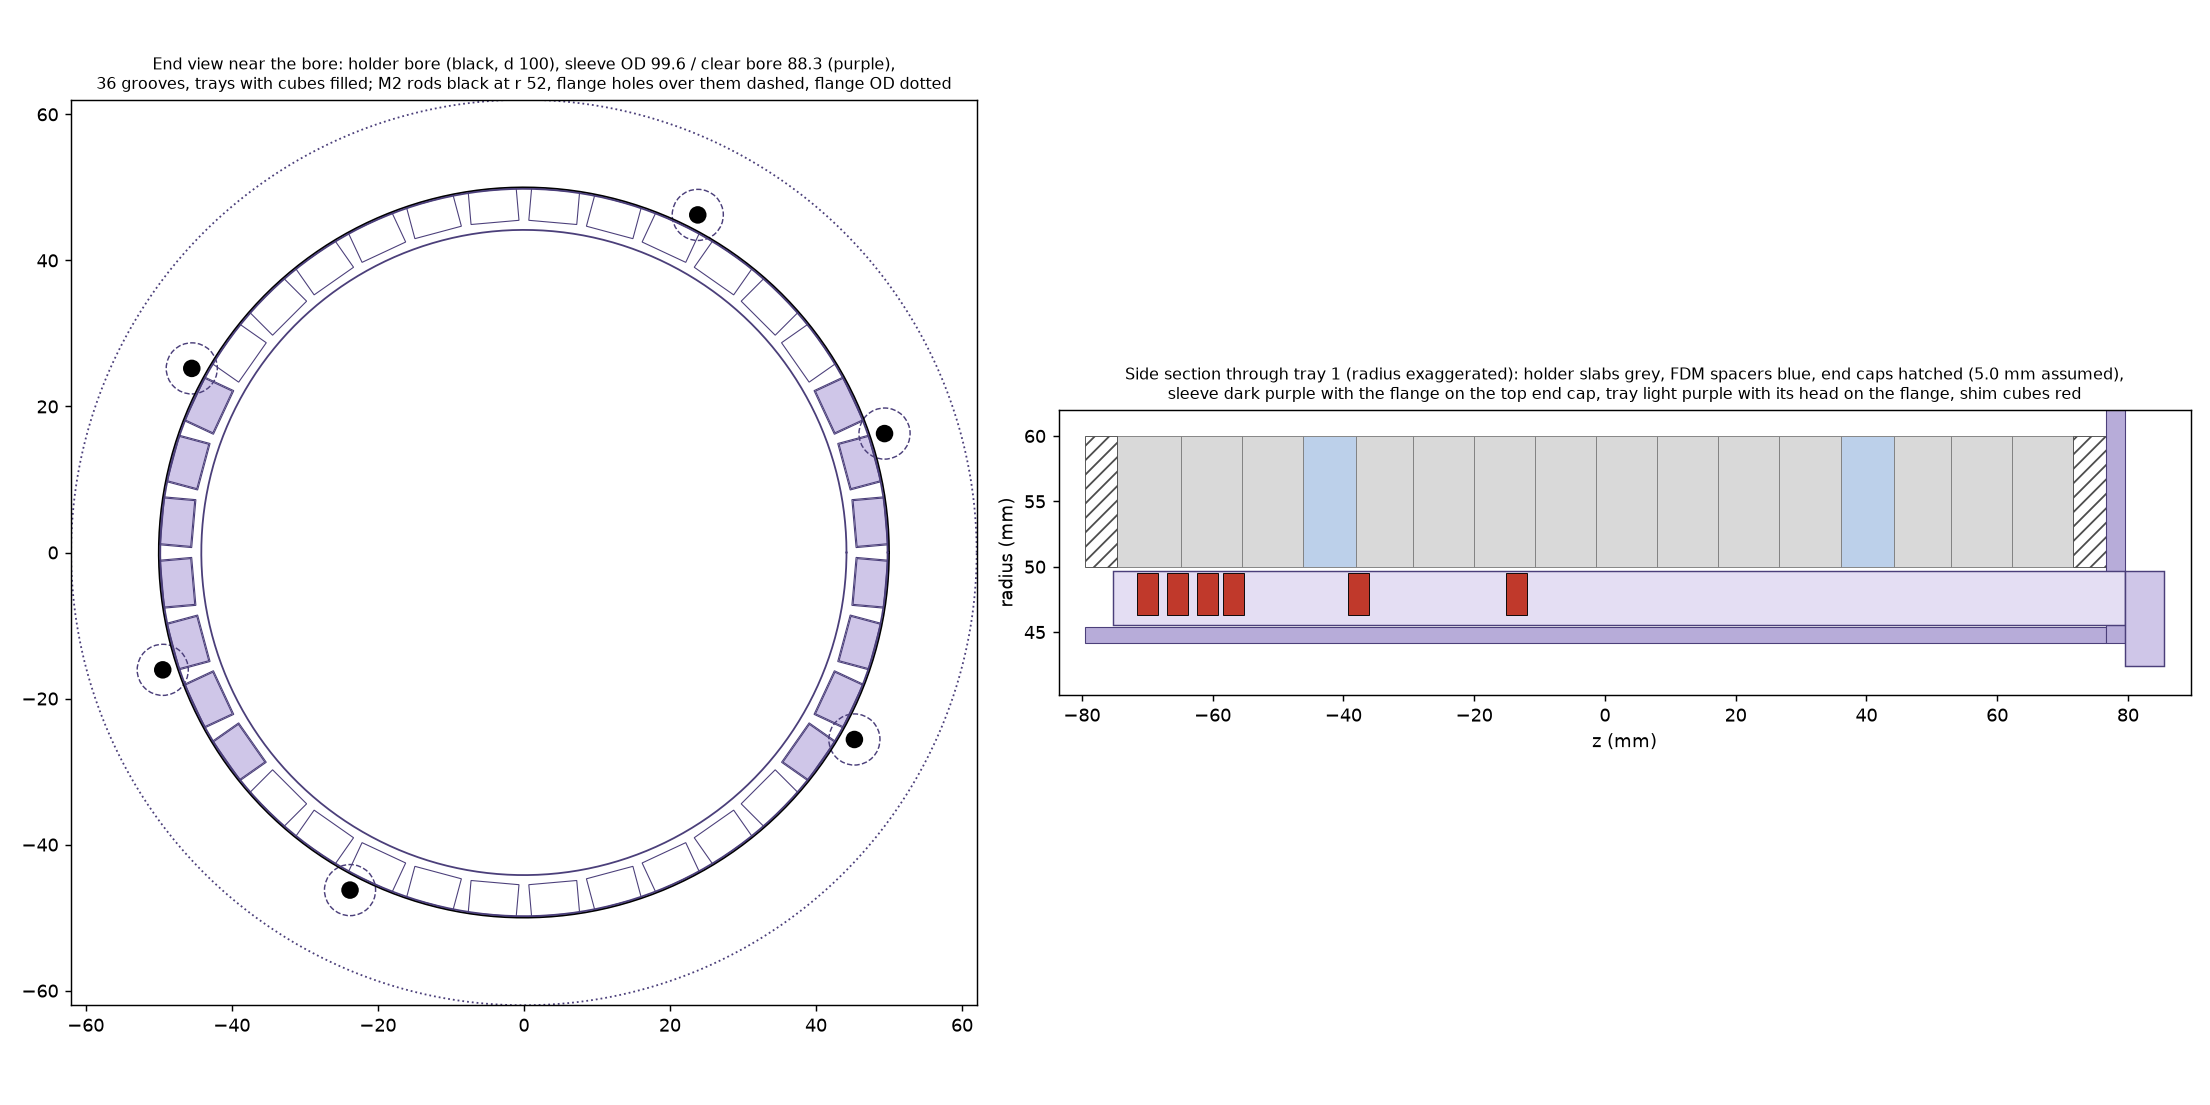
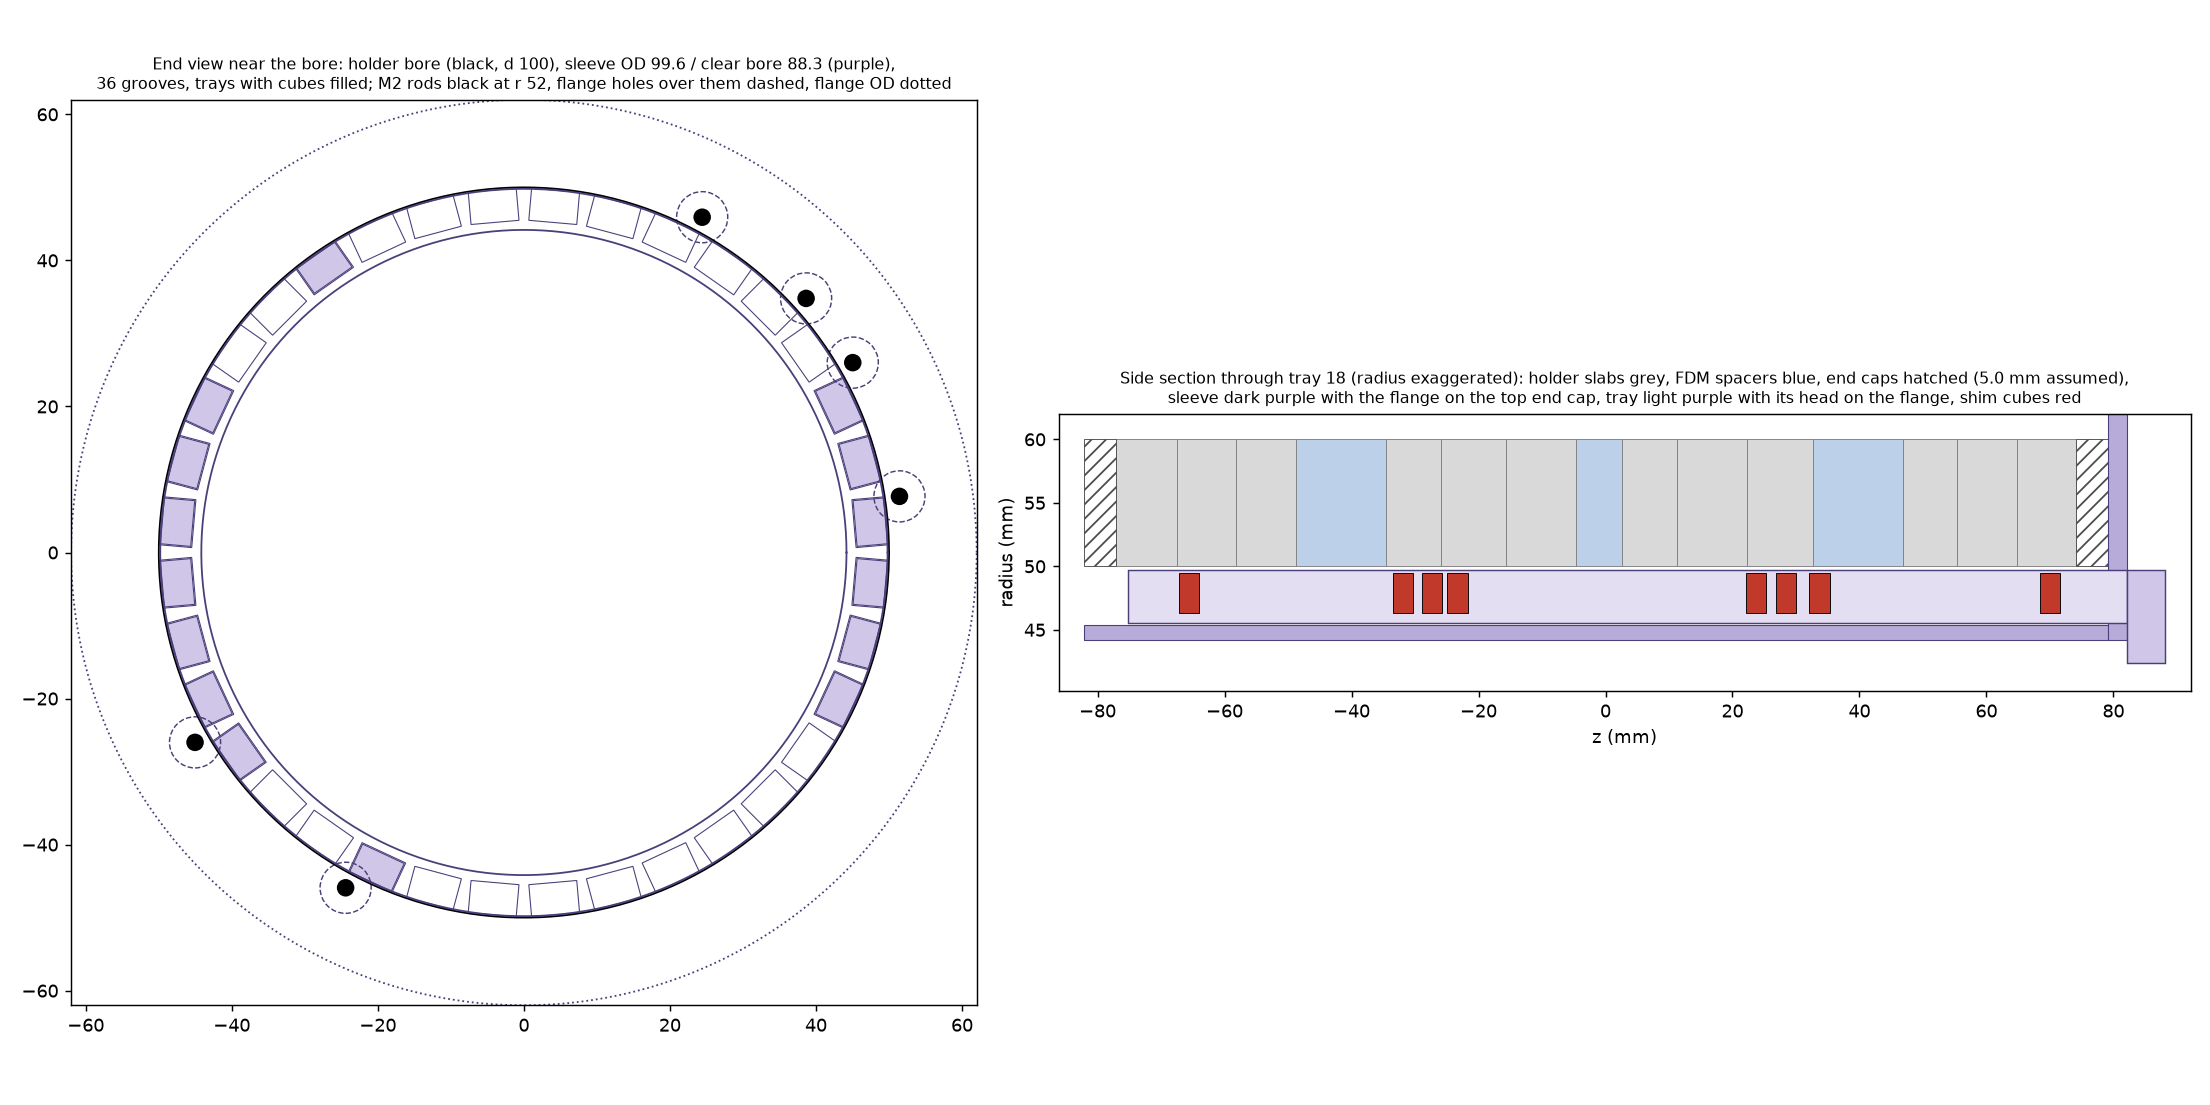
Shim sleeve and holder CAD for FD_gd
- FD_gd is the design for the holder and shim sleeve (FD_robust kept for comparison)
- shim study on FD_gd: 3,471-4,289 -> 328-621 ppm with 60 cubes (6 starts)
- shim_design.py: 6 placement starts by default (3 left some builds at ~930 ppm)
- SHIMMING.md, CAD.md, README, FIELD_DESIGN.md updated; figures for FD_gd

diff --git a/shim_design.py b/shim_design.py
@@ -29,8 +29,8 @@ Field maps:
                   checked on the target cylinder; for studying what shimming buys before anything is built
 
 usage:
-  python shim_design.py results/field_design/FD_robust.xlsx results/shim/FD_robust_sim --simulate 3
-  python shim_design.py results/field_design/FD_robust.xlsx results/shim/measured --map map.csv
+  python shim_design.py results/field_design/FD_gd.xlsx results/shim/FD_gd_sim6 --simulate 3
+  python shim_design.py results/field_design/FD_gd.xlsx results/shim/measured --map map.csv
 Outputs: <out>_b<i>.csv (one row per shim cube: tray, z, orientation, position, magnetization), <out>_b<i>.npz,
 <out>.log.
 """
@@ -282,7 +282,7 @@ def main():
     ap.add_argument('--tray-wall', type=float, default=0.8, help='resin between pockets along a tray, mm')
     ap.add_argument('--max-cubes', type=int, default=60)
     ap.add_argument('--min-b0', type=float, default=44.8, help='mT, after shimming')
-    ap.add_argument('--starts', type=int, default=3, help='placement offsets tried before refinement')
+    ap.add_argument('--starts', type=int, default=6, help='placement offsets tried before refinement')
     ap.add_argument('--iters', type=int, default=200, help='SLSQP iterations per start')
     args = ap.parse_args()
 

diff --git a/make_shim_cad.py b/make_shim_cad.py
@@ -17,7 +17,7 @@ Geometry options must match the shim_design.py run (cube, trays, bore, fit, tray
 checks the cube centre radius it builds against the one in the solution.
 
 usage:
-  python make_shim_cad.py results/shim/FD_robust_sim_b0.csv --holder cad/fd_robust --out cad/fd_robust_shim
+  python make_shim_cad.py results/shim/FD_gd_sim6_b0.csv --holder cad/fd_gd --out cad/fd_gd_shim
 Outputs in --out: sleeve.step/.stl, tray_<k>.step/.stl (trays with cubes), shim_assembly.step (sleeve, trays and
 shim cubes in place, same coordinates as the holder's assembly.step), tray_loading.png, fit_section.png, trays.csv.
 """

diff --git a/SHIMMING.md b/SHIMMING.md
@@ -5,25 +5,29 @@ cubes (1/8", N42) are placed by the same field-driven pipeline as the main array
 density by LP, discrete magnets from the density, then gradient refinement of every cube's position and angle.
 
 Tools: `shim_design.py` (placement), `make_shim_cad.py` (sleeve, trays, loading guide), `plot_shims.py` (picture).
-Design: `results/field_design/FD_robust.xlsx` (650 cubes, robust design; holder CAD from `make_ring_cad.py`).
+Design: `results/field_design/FD_gd.xlsx` (650 cubes, the field-driven design; holder CAD from `make_ring_cad.py`).
+The robust design `FD_robust.xlsx` was studied too and is kept for comparison: it is better unshimmed but puts more
+magnets near the centre, and once shimmed the two are close (FD_gd slightly better).
 
-![shim sleeve](figures/shim_sleeve_FD_robust.png)
+![shim sleeve](figures/shim_sleeve_FD_gd.png)
 
 ## Why shim
 
-With ideal magnets FD_robust gives 639 ppm over the 40 x 40 mm cylinder; with typical magnet errors (Br 0.8%, angle
-0.7 deg, position +-0.25 mm) it is 2,400 ppm typical, 3,200 ppm p90. The errors are random, so the as-built field is not
-known until it is measured, and no design change removes them. Shimming after the build does.
+With ideal magnets FD_gd gives 45 ppm over the 40 x 40 mm cylinder; with typical magnet errors (Br 0.8%, angle
+0.7 deg, position +-0.25 mm) it is 3,400 ppm typical, 4,500 ppm p90 (FD_robust: 639 ppm ideal, 2,400 / 3,200 as
+built). The errors are random, so the as-built field is not known until it is measured, and no design change removes
+them. Shimming after the build does.
 
 What an ideal shim of a given order would leave (`magsimulator.tolerance_homogeneity`, 400 builds, typical / p90 ppm):
 
-| Shim removes | FD_robust | Previous BEST |
-|---|---|---|
-| nothing (mean only) | 2,461 / 3,277 | 3,217 / 4,123 |
-| + linear terms (gradient offsets) | 1,588 / 2,204 | 2,297 / 3,016 |
-| + second-order terms | 1,104 / 1,339 | 1,580 / 1,997 |
+| Shim removes | FD_gd | FD_robust | Previous BEST |
+|---|---|---|---|
+| nothing (mean only) | 3,376 / 4,466 | 2,461 / 3,277 | 3,217 / 4,123 |
+| + linear terms (gradient offsets) | 2,459 / 3,198 | 1,588 / 2,204 | 2,297 / 3,016 |
+| + second-order terms | 1,595 / 2,076 | 1,104 / 1,339 | 1,580 / 1,997 |
 
-The sleeve below does better than a perfect second-order shim (440-630 ppm on simulated builds), because it also corrects higher orders.
+The sleeve below does better than a perfect second-order shim (330-620 ppm on simulated FD_gd builds), because it also
+corrects higher orders.
 
 ## What MRI4ALL did
 
@@ -41,7 +45,8 @@ ledger / magcadexporter code as this repo:
 
 ## Options considered
 
-All on FD_robust, simulated builds (as above), peak-to-peak over the 40 x 40 mm cylinder (1,990 check points):
+Studied on FD_robust (before switching to FD_gd), simulated builds as above, peak-to-peak over the 40 x 40 mm cylinder
+(1,990 check points):
 
 | Option | Result (3 builds, unshimmed 2,149 / 3,461 / 2,246) | Shim magnets | Notes |
 |---|---|---|---|
@@ -61,11 +66,11 @@ instead of 100.
    as-built builds of the ledger (`--simulate N`) to study the design before building.
 2. **LP density.** Points every a/2 along each of the 36 trays, 6 directions each (+-radial, +-tangential, +-z):
    minimize the peak-to-peak deviation (minimax LP, HiGHS) with B0 >= `--min-b0` (44.8 mT) and at most `--max-cubes`
-   (60) cubes. This is the continuous optimum: 65-72 ppm.
+   (60) cubes. This is the continuous optimum: 4 ppm for FD_gd, 72 ppm for FD_robust.
 3. **Placement.** Walk each tray; a cube goes wherever the accumulated |density| passes k + offset and points along the
    local density: flat (magnetization in the tangential-z plane, at the matching angle) or standing (radially in or
-   out) when the density is mostly radial. Cubes beyond the cap with the least density around them are dropped. Three
-   offsets are tried.
+   out) when the density is mostly radial. Cubes beyond the cap with the least density around them are dropped. Six
+   offsets are tried (`--starts`): some end in a poor local optimum (thousands of ppm), so the best is kept.
 4. **Gradient refinement.** SLSQP minimax over every cube's z and every flat cube's angle, with tray spacing (the full
    diagonal for flat cubes, which may turn to any angle, plus 0.8 mm), |z| <= 70 mm and B0. The cubes are 25+ mm from
    the check points, so a point dipole is exact enough and the gradients are analytic; the result is checked with the
@@ -74,22 +79,33 @@ instead of 100.
    are propagated linearly and reported (typical and p90 after shimming).
 
 Why not a fixed pocket grid: the trays are printed for each solution, so pockets can be anywhere and at any angle. On a
-grid the continuous optimum (~65 ppm) rounds to ~1,000 ppm at best; letting positions and angles move recovers most
+grid the continuous optimum rounds to ~1,000 ppm at best; letting positions and angles move recovers most
 of it.
 
 ## Results
 
-`results/shim/FD_robust_sim.log` (`shim_design.py --simulate 3`, defaults: 36 trays, at most 60 cubes, B0 >= 44.8 mT),
-peak-to-peak over the 40 x 40 mm cylinder, exact cuboid fields, 1,990 check points:
+**FD_gd** (`results/shim/FD_gd_sim6.log`, `shim_design.py --simulate 3`, defaults: 36 trays, at most 60 cubes,
+B0 >= 44.8 mT, 6 starts), peak-to-peak over the 40 x 40 mm cylinder, exact cuboid fields, 1,990 check points:
 
 | Build | Unshimmed | LP bound | Shimmed | Cubes (flat / out / in), trays | B0 after | With shim-cube errors, typical / p90 | Time |
 |---|---|---|---|---|---|---|---|
-| 0 | 2,149 | 72 | **444** | 60 (34 / 11 / 15), 14 | 44.88 mT | 642 / 775 | 76 s |
-| 1 | 3,461 | 73 | **459** | 60 (42 / 8 / 10), 14 | 44.97 mT | 641 / 759 | 135 s |
-| 2 | 2,246 | 72 | **632** | 60 (35 / 11 / 14), 16 | 44.91 mT | 764 / 867 | 97 s |
+| 0 | 3,471 | 4 | **329** | 60 (34 / 14 / 12), 15 | 44.94 mT | 679 / 824 | 445 s |
+| 1 | 4,289 | 4 | **328** | 60 (34 / 13 / 13), 16 | 44.88 mT | 634 / 818 | 249 s |
+| 2 | 4,008 | 4 | **621** | 60 (30 / 15 / 15), 16 | 44.83 mT | 808 / 941 | 206 s |
 
-For comparison, a perfect second-order shim leaves 927-1,141 ppm on the same builds. The CAD and figures on this page
-are for build 0.
+A perfect second-order shim leaves ~1,600 ppm typical on FD_gd. With 3 starts instead of 6, builds 0 and 1 ended at 358
+and 932 ppm: the starts matter. The CAD and figures on this page are for build 0.
+
+**FD_robust** (`results/shim/FD_robust_sim.log`, 3 starts):
+
+| Build | Unshimmed | LP bound | Shimmed | Cubes (flat / out / in), trays | B0 after | With shim-cube errors, typical / p90 |
+|---|---|---|---|---|---|---|
+| 0 | 2,149 | 72 | **444** | 60 (34 / 11 / 15), 14 | 44.88 mT | 642 / 775 |
+| 1 | 3,461 | 73 | **459** | 60 (42 / 8 / 10), 14 | 44.97 mT | 641 / 759 |
+| 2 | 2,246 | 72 | **632** | 60 (35 / 11 / 14), 16 | 44.91 mT | 764 / 867 |
+
+FD_gd starts ~40% worse but its residual is almost all random error the sleeve can reach (LP bound 4 ppm, vs 72 for
+FD_robust, whose own 639 ppm design residual partly remains), so shimmed the two end up about equal.
 
 The shim-cube errors are the limit now: at 48 mm from the target a 1/8" cube's 0.7 deg angle error is worth more than
 the remaining design residual. Plan on two rounds: map, shim, re-map, then re-run `shim_design.py` on the new map and
@@ -101,9 +117,9 @@ reprint the few trays that change.
 
 | Part | Dimensions (defaults) | Notes |
 |---|---|---|
-| Sleeve | OD 99.6 (0.2 mm radial fit in the 100 mm bore), clear bore 88.3, 36 grooves 6.59 wide x 4.42 deep, ribs 1.33 mm at the groove bottom; z -79.6 to +76.6 plus a 3 mm flange | One part (SLA, ~159 mm tall, prints standing on the flange). The grooves are open on the outside: the holder's bore wall closes them, so they are the tray channels. |
+| Sleeve | OD 99.6 (0.2 mm radial fit in the 100 mm bore), clear bore 88.3, 36 grooves 6.59 wide x 4.42 deep, ribs 1.33 mm at the groove bottom; z -82.1 to +79.1 plus a 3 mm flange (FD_gd holder) | One part (SLA, ~164 mm tall, prints standing on the flange). The grooves are open on the outside: the holder's bore wall closes them, so they are the tray channels. |
 | Flange | OD 124, 3 mm, on the outer face of the top end cap | Sets the sleeve's z (and with its +x notch, its rotation). Six 7 mm holes clear the M2 rods and nuts of the holder (r = 52 mm). |
-| Trays | 6.29 wide x 4.17 thick, z -75.2 to +79.6, head 6 mm above the flange | One per groove that holds cubes (14 in the example). Pockets open on the outer face, cube on a 0.8 mm floor (cube centres at r = 47.91 mm, as in the optimization), 1.2 mm push-out hole under each. The head rests on the flange: it sets the tray's z. Tray number engraved on the head. |
+| Trays | 6.29 wide x 4.17 thick, z -75.2 to +82.1, head 6 mm above the flange | One per groove that holds cubes (15 in the example). Pockets open on the outer face, cube on a 0.8 mm floor (cube centres at r = 47.91 mm, as in the optimization), 1.2 mm push-out hole under each. The head rests on the flange: it sets the tray's z. Tray number engraved on the head. |
 
 Pocket marks: flat cubes have a V notch at the N face (pocket turned to the cube's angle); standing cubes have a round
 notch if N faces out (towards the holder) and a square notch if N faces in (towards the bore axis).
@@ -118,22 +134,22 @@ taller than the flange (3 mm) inside the 7 mm holes. The script assumes 5 mm end
 regenerate the sleeve and trays with the right value so the cubes stay at the z they were optimized for. All parts
 share the holder's coordinates (`shim_assembly.step` overlays `assembly.step`).
 
-**Forces.** The main array's field at the shim radius is 47 mT median, 104 mT maximum: at most 3.5 N mm of torque on a
-shim cube (the pocket holds it), and at most 83 kA/m against a reversed cube, far below N42's coercivity.
+**Forces.** The main array's field at the shim radius is 51 mT median, 113 mT maximum (FD_gd): at most 3.8 N mm of
+torque on a shim cube (the pocket holds it), and at most 90 kA/m against a reversed cube, far below N42's coercivity.
 
 ## Workflow
 
 ```bash
 # holder for the design (bolt holes go to holes.csv; the sleeve flange clears the inner rods)
-python make_ring_cad.py results/field_design/FD_robust.xlsx --out cad/fd_robust --magnets
+python make_ring_cad.py results/field_design/FD_gd.xlsx --out cad/fd_gd --magnets
 
 # after building: map the field (e.g. MRI4ALL field_mapper_3DFM) over the target region, then
-python shim_design.py results/field_design/FD_robust.xlsx results/shim/round1 --map map.csv
-python make_shim_cad.py results/shim/round1_map.csv --holder cad/fd_robust --out cad/shim_round1
-python plot_shims.py results/field_design/FD_robust.xlsx results/shim/round1_map.npz figures/shim_round1.png
+python shim_design.py results/field_design/FD_gd.xlsx results/shim/round1 --map map.csv
+python make_shim_cad.py results/shim/round1_map.csv --holder cad/fd_gd --out cad/shim_round1
+python plot_shims.py results/field_design/FD_gd.xlsx results/shim/round1_map.npz figures/shim_round1.png 182
 
 # before building, what shimming buys on simulated builds
-python shim_design.py results/field_design/FD_robust.xlsx results/shim/FD_robust_sim --simulate 3
+python shim_design.py results/field_design/FD_gd.xlsx results/shim/FD_gd_sim6 --simulate 3
 ```
 
 Print the sleeve and trays in the same resin as the rings (Rigid 4000); check the tray-in-groove slide and the 1/8"
@@ -146,7 +162,8 @@ pocket fit with a short test piece first (clearances `--slide`, `--pocket-tol`).
   (the field is harmonic, so the surface bounds the inside); the simulated runs use 1,990 points on it.
 - Shim-cube errors (above) and magnet-magnet interaction (finite permeability, OSII_COMPARISON.md) are not in the
   placement; a second round on a fresh map takes care of both.
-- Placement with few cubes (cap 30) is unreliable: some starts end at thousands of ppm. The three starts usually find a
-  good one at the default cap of 60.
+- Placement is not robust: individual starts can end at thousands of ppm (more often with few cubes; a cap of 30 is
+  unreliable), and the LP bound (4 ppm for FD_gd) is far below what the discrete cubes reach. More starts or a smoothed
+  warm-up before the minimax step (as in field_design.py) should close more of that gap.
 - Not yet done: a tray/groove fit coupon, temperature (shims have the same temperature coefficient as the main array, so
   homogeneity is first-order unaffected), and the end caps themselves.

diff --git a/CAD.md b/CAD.md
@@ -44,15 +44,16 @@ Side view of the stack (z is the bore axis; B0 points along +x, marked by a V no
 All parts share 8 M3 bolt holes outside the magnets and 6 M2 holes near the bore. One M3 hole is shifted 10 degrees off
 the even spacing, so parts only stack in the correct rotation and the right way up.
 
-### Field-driven robust design and shim sleeve
+### Field-driven design and shim sleeve
 
-The current design is `results/field_design/FD_robust.xlsx` (FIELD_DESIGN.md): 650 cubes in 14 slabs and 2 FDM
-spacers (8.16 mm, printed twice), OD 185.9 mm, stack z -74.56 to +71.56 mm, 8 M3 rods at r 89.8 and 6 M2 rods at r 52.
-Pocket-to-pocket walls go down to 1.14 mm (same range as the previous design; the SLA coupon's thin-wall pairs test it).
+The current design is `results/field_design/FD_gd.xlsx` (FIELD_DESIGN.md): 650 cubes in 12 slabs and 3 FDM spacers
+(14.17 mm, printed twice, and 7.14 mm), OD 182.0 mm, stack z -77.14 to +74.14 mm, 8 M3 rods at r 87.8 and 6 M2 rods at
+r 52 (they only fit at 8.5-62 and 210-242 degrees). Pocket-to-pocket walls go down to 1.02 mm, as in the previous design
+(the SLA coupon's thin-wall pairs test it).
 
 ```bash
-python make_ring_cad.py results/field_design/FD_robust.xlsx --out cad/fd_robust --magnets
-python make_shim_cad.py results/shim/FD_robust_sim_b0.csv --holder cad/fd_robust --out cad/fd_robust_shim
+python make_ring_cad.py results/field_design/FD_gd.xlsx --out cad/fd_gd --magnets
+python make_shim_cad.py results/shim/FD_gd_sim6_b0.csv --holder cad/fd_gd --out cad/fd_gd_shim
 ```
 
 The second command makes the passive shim sleeve and trays for one shim solution ([SHIMMING.md](SHIMMING.md)). The
@@ -60,6 +61,9 @@ sleeve slides into the bore and its flange sits on the top end cap, so **design 
 outer face on the top cap, and M2 nuts no taller than 3 mm** (they sit inside 7 mm holes in the flange). `holes.csv`
 in the holder folder lists every bolt hole for that purpose. `shim_assembly.step` uses the same coordinates as
 `assembly.step`.
+
+The robust alternative `FD_robust.xlsx` generates the same way (`--out cad/fd_robust`): 14 slabs, 2 spacers
+(8.16 mm), OD 185.9 mm, stack z -74.56 to +71.56 mm.
 
 ## Setup
 

diff --git a/FIELD_DESIGN.md b/FIELD_DESIGN.md
@@ -186,5 +186,5 @@ Figure: `figures/compare_magnets3D_views_robust.png` (previous BEST, `FD_gd`, `F
 1. Model the systematic part of placement error: magnets in loose pockets are pushed and twisted (up to ~1.3 degrees
    with 0.15 mm clearance) in directions set by their neighbors, which O'Reilly & Webb found dominated their build.
 2. Assign measured magnets (Br, angle) to positions with the same gradient machinery.
-3. Generate and check the ring CAD for `FD_gd.xlsx`. (Done for `FD_robust.xlsx`: `cad/fd_robust`, see CAD.md.)
+3. ~~Generate and check the ring CAD for `FD_gd.xlsx`.~~ Done (`cad/fd_gd`, also `cad/fd_robust`), see CAD.md.
 4. Passive shimming after the build: done as a slide-in sleeve, see [SHIMMING.md](SHIMMING.md).

diff --git a/README.md b/README.md
@@ -54,8 +54,8 @@ disassembly); `shim_design.py` places 1/8" cubes from a measured field map with 
 `make_shim_cad.py` generates the sleeve, trays and loading guide.
 
 ```bash
-python shim_design.py results/field_design/FD_robust.xlsx results/shim/round1 --map map.csv
-python make_shim_cad.py results/shim/round1_map.csv --holder cad/fd_robust --out cad/shim_round1
+python shim_design.py results/field_design/FD_gd.xlsx results/shim/round1 --map map.csv
+python make_shim_cad.py results/shim/round1_map.csv --holder cad/fd_gd --out cad/shim_round1
 ```
 
 ## Compact magnet design study (this fork)
